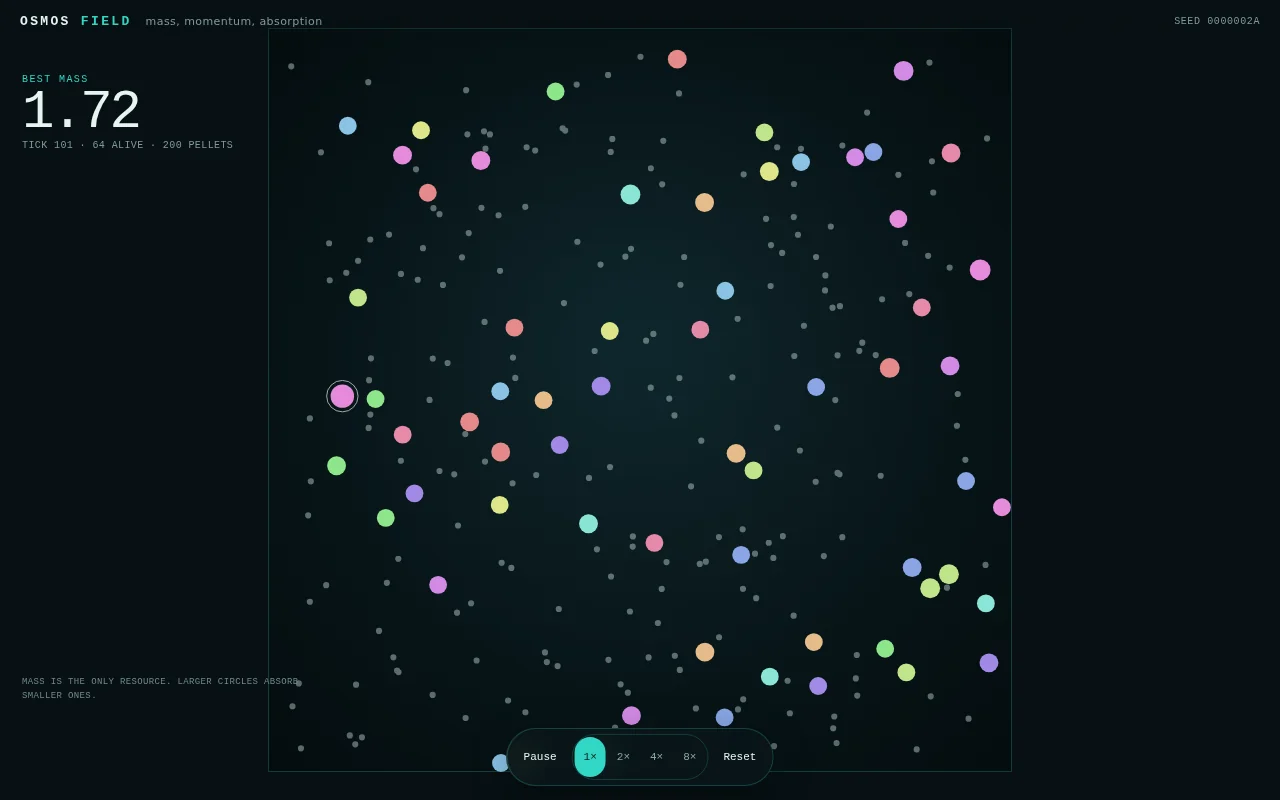
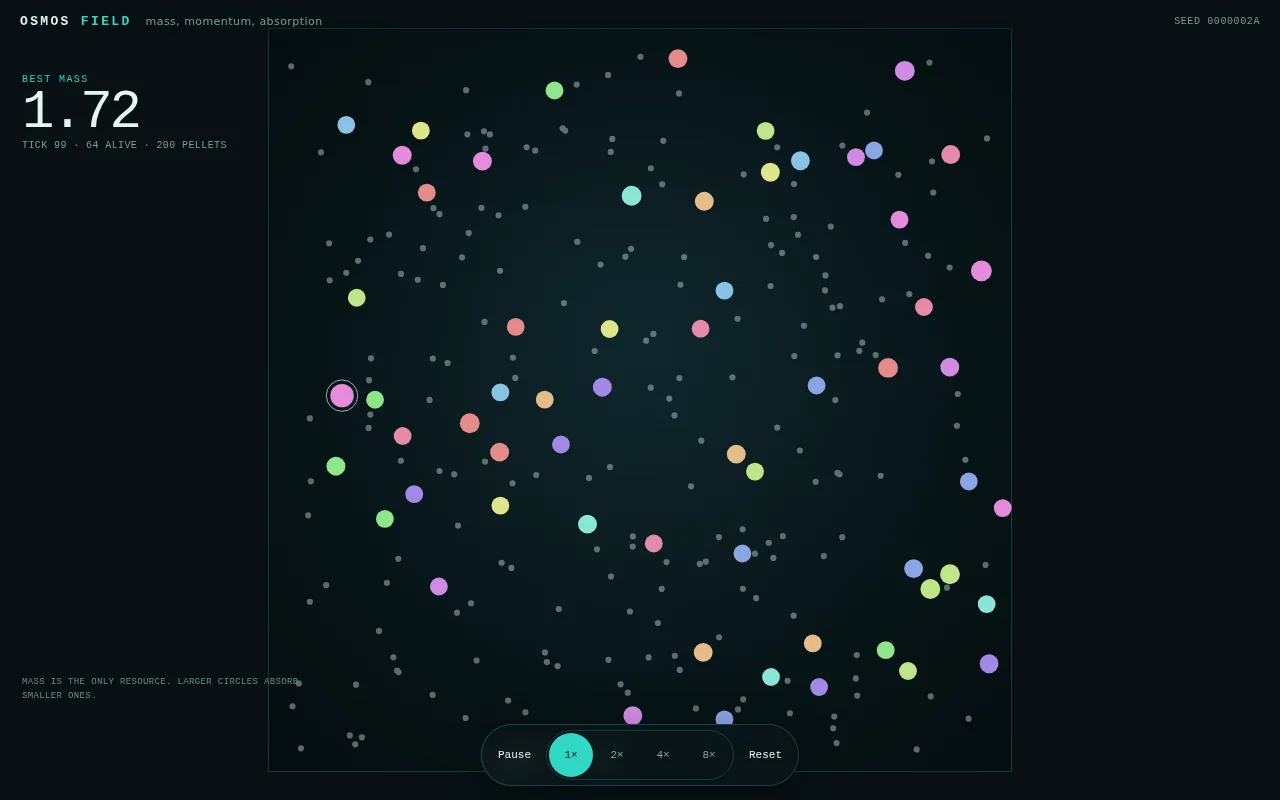
test: harden phase 1 physics and browser evidence

diff --git a/osmos-web/src/App.tsx b/osmos-web/src/App.tsx
@@ -186,8 +186,9 @@ const App = () => {
 
       if (!paused()) {
         accumulator += elapsed * 60 * speed();
-        const steps = Math.min(Math.floor(accumulator), MAX_STEPS_PER_FRAME);
-        accumulator -= steps;
+        const wanted = Math.floor(accumulator);
+        const steps = Math.min(wanted, MAX_STEPS_PER_FRAME);
+        accumulator -= wanted;
         if (steps > 0) {
           engine?.step(steps);
         }

diff --git a/osmos-web/src/index.css b/osmos-web/src/index.css
@@ -148,6 +148,7 @@ canvas {
 }
 
 button {
+  min-width: 44px;
   min-height: 44px;
   padding: 0 11px;
   border: 0;
@@ -175,7 +176,8 @@ button[aria-pressed="true"] {
 }
 
 .speed-group button {
-  min-height: 40px;
+  min-width: 44px;
+  min-height: 44px;
   padding: 0 9px;
   color: #8aa7a4;
 }

diff --git a/osmos-sim/src/world.rs b/osmos-sim/src/world.rs
@@ -513,4 +513,98 @@ mod tests {
         assert_eq!(snapshot.mote_flags[0] & FLAG_TARGET_REACHED, 0);
         assert_eq!(snapshot.mote_flags[0] & FLAG_ALIVE, FLAG_ALIVE);
     }
+
+    #[test]
+    fn one_mote_can_absorb_three_targets_in_one_substep() {
+        let mut world = World::new(config(3, 0));
+        set_mote(&mut world, 0, Vec2::new(0.5, 0.5), Vec2::ZERO, 1.2);
+        set_mote(&mut world, 1, Vec2::new(0.52, 0.5), Vec2::ZERO, 1.0);
+        set_mote(&mut world, 2, Vec2::new(0.525, 0.5), Vec2::ZERO, 0.5);
+
+        world.step();
+
+        assert_eq!(world.motes.len(), 1);
+        assert!((world.motes[0].mass.get() - 2.7).abs() < 1e-5);
+    }
+
+    #[test]
+    fn maximum_speed_does_not_tunnel_through_a_pellet() {
+        let mut world = World::new(config(1, 1));
+        set_mote(
+            &mut world,
+            0,
+            Vec2::new(0.5, 0.5),
+            Vec2::new(0.25, 0.0),
+            0.05,
+        );
+        world.pellets[0].position = Vec2::new(0.508, 0.5);
+
+        world.step();
+
+        assert_eq!(world.pellets.len(), 0);
+        assert!((world.motes[0].mass.get() - 0.17).abs() < 1e-5);
+    }
+
+    #[test]
+    fn wall_bounce_keeps_the_mote_inside() {
+        let mut world = World::new(config(1, 0));
+        set_mote(
+            &mut world,
+            0,
+            Vec2::new(0.99, 0.5),
+            Vec2::new(0.25, 0.0),
+            1.0,
+        );
+
+        world.step();
+
+        assert!(world.motes[0].velocity.x < 0.0);
+        assert!(world.motes[0].position.x <= 1.0 - world.motes[0].radius() + 1e-4);
+    }
+
+    #[test]
+    fn one_thousand_steps_have_a_stable_quantized_hash() {
+        let config = SimConfig {
+            seed: 42,
+            motes: 64,
+            pellets: 236,
+            ..SimConfig::default()
+        };
+        let mut first = World::new(config);
+        let mut second = World::new(config);
+        let mut different = World::new(SimConfig { seed: 43, ..config });
+
+        for _ in 0..1000 {
+            first.step();
+            second.step();
+            different.step();
+        }
+
+        let hash = hash_snapshot(&first.snapshot());
+        println!("quantized_hash={hash:016x}");
+        assert_eq!(hash, hash_snapshot(&second.snapshot()));
+        assert_ne!(hash, hash_snapshot(&different.snapshot()));
+    }
+
+    fn hash_snapshot(snapshot: &Snapshot) -> u64 {
+        let mut hash = 14_695_981_039_346_656_037_u64;
+        let mut write = |value: f32| {
+            let quantized = (value * 10_000.0).round() as i64 as u64;
+            hash ^= quantized;
+            hash = hash.wrapping_mul(1_099_511_628_211);
+        };
+
+        for index in (0..snapshot.mote_state.len()).step_by(MOTE_STATE_STRIDE) {
+            write(snapshot.mote_state[index]);
+            write(snapshot.mote_state[index + 1]);
+            write(snapshot.mote_state[index + 4]);
+        }
+        for index in (0..snapshot.pellet_state.len()).step_by(PELLET_STATE_STRIDE) {
+            write(snapshot.pellet_state[index]);
+            write(snapshot.pellet_state[index + 1]);
+            write(snapshot.pellet_state[index + 2]);
+        }
+
+        hash
+    }
 }

diff --git a/osmos-sim/src/config.rs b/osmos-sim/src/config.rs
@@ -22,8 +22,8 @@ impl Default for SimConfig {
             pellets: 236,
             mote_mass: 1.0,
             pellet_mass: 0.12,
-            max_speed: 0.2,
-            wall_restitution: 0.9,
+            max_speed: 0.25,
+            wall_restitution: 0.8,
             collision_restitution: 0.8,
             absorb_ratio: 1.15,
         }
